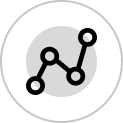
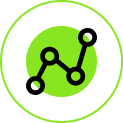
어바웃 이미지들 초록초록하게 변경, 글도변경

Changed region(s): [[0.1951, 0.1951, 0.8049, 0.8049], [0.0, 0.0, 1.0, 1.0]]

diff --git a/ants_final/templates/main/about.html b/ants_final/templates/main/about.html
@@ -38,23 +38,39 @@
         
         <!-- 추가된 섹션 -->
         <div class="py-5 text-center">
-            <h1 class="display-4" style="font-weight: bold;">Everywhere invest in seoul.</h1>
-            <p class="lead mt-4" style="font-size: 18px;">
-                ANTS는 어렵지만, 주식을 시작하고 싶은 주식 초보를 위한 플랫폼이에요.
-                <br>ANTS는 초보 투자자의 첫걸음에 도움이 될 수 있는 여러 기능을 제공해요.
+            <h1 class="display-4" style="font-weight: bold; margin-bottom: 2rem;">🌱 개미들의 주식 새싹 가꾸기 플랫폼, ANTS 🌱</h1>
+            
+            <p class="lead" style="font-size: 18px; margin-bottom: 2rem; line-height: 1.8;">
+                주린이, 즉 주식 초보 투자자들을 위한 ANTS는,<br>
+                개미 투자자들이 주식 시장에서 첫 발을 내딛고,<br>
+                새싹처럼 건강하게 성장할 수 있도록 돕는 플랫폼이에요.
             </p>
-            <p style="font-size: 18px;">
-                <ul>
-                    <li>ANTS MBTI를 통해 초보 투자자가 기업에 관한 정보를 쉽게 접하고 이해할 수 있도록 도와요.</li>
-                    <li></li>
+        
+            <!-- 주요 기능 소개 리스트 -->
+            <div class="container" style="margin-bottom: 3rem;">
+                <ul style="list-style-type: none; font-size: 18px; padding: 0;">
+                    <li class="mb-4">
+                        <strong>📊 실시간 데이터 시각화</strong> - 
+                        주식 시장의 실시간 데이터를 시각적으로 제공하여, 시장 변동성을 쉽게 파악할 수 있어요.
+                    </li>
+                    <li class="mb-4">
+                        <strong>🤝 맞춤형 종목 추천</strong> - 
+                        사용자의 투자 성향을 분석하여, 주린이에게 적합한 주식을 추천해요.
+                    </li>
+                    <li class="mb-4">
+                        <strong>📈 ANTS MBTI 시스템</strong> - 
+                        투자 성향을 기반으로 주식 MBTI를 제공하여 기업 정보를 쉽게 이해할 수 있도록 도와요.
+                    </li>
                 </ul>
-                
-                <br>
-            </p>
-            <p class="lead" style="font-size: 18px;">
-                우리는 글로벌 금융 시장을 탐험하며, 투자자들이 보다 풍부한 경험을 할 수 있도록 돕습니다.
+            </div>
+        
+            <!-- 결론 부분 -->
+            <p class="lead" style="font-size: 18px; margin-top: 2rem; line-height: 1.8;">
+                시장은 빠르게 변하지만, ANTS는 여러분과 함께 투자 성장을 돕습니다.<br>
+                개미 투자자들의 첫걸음을 ANTS가 응원합니다.
             </p>
         </div>
+        
     </div>
 </section>
 
